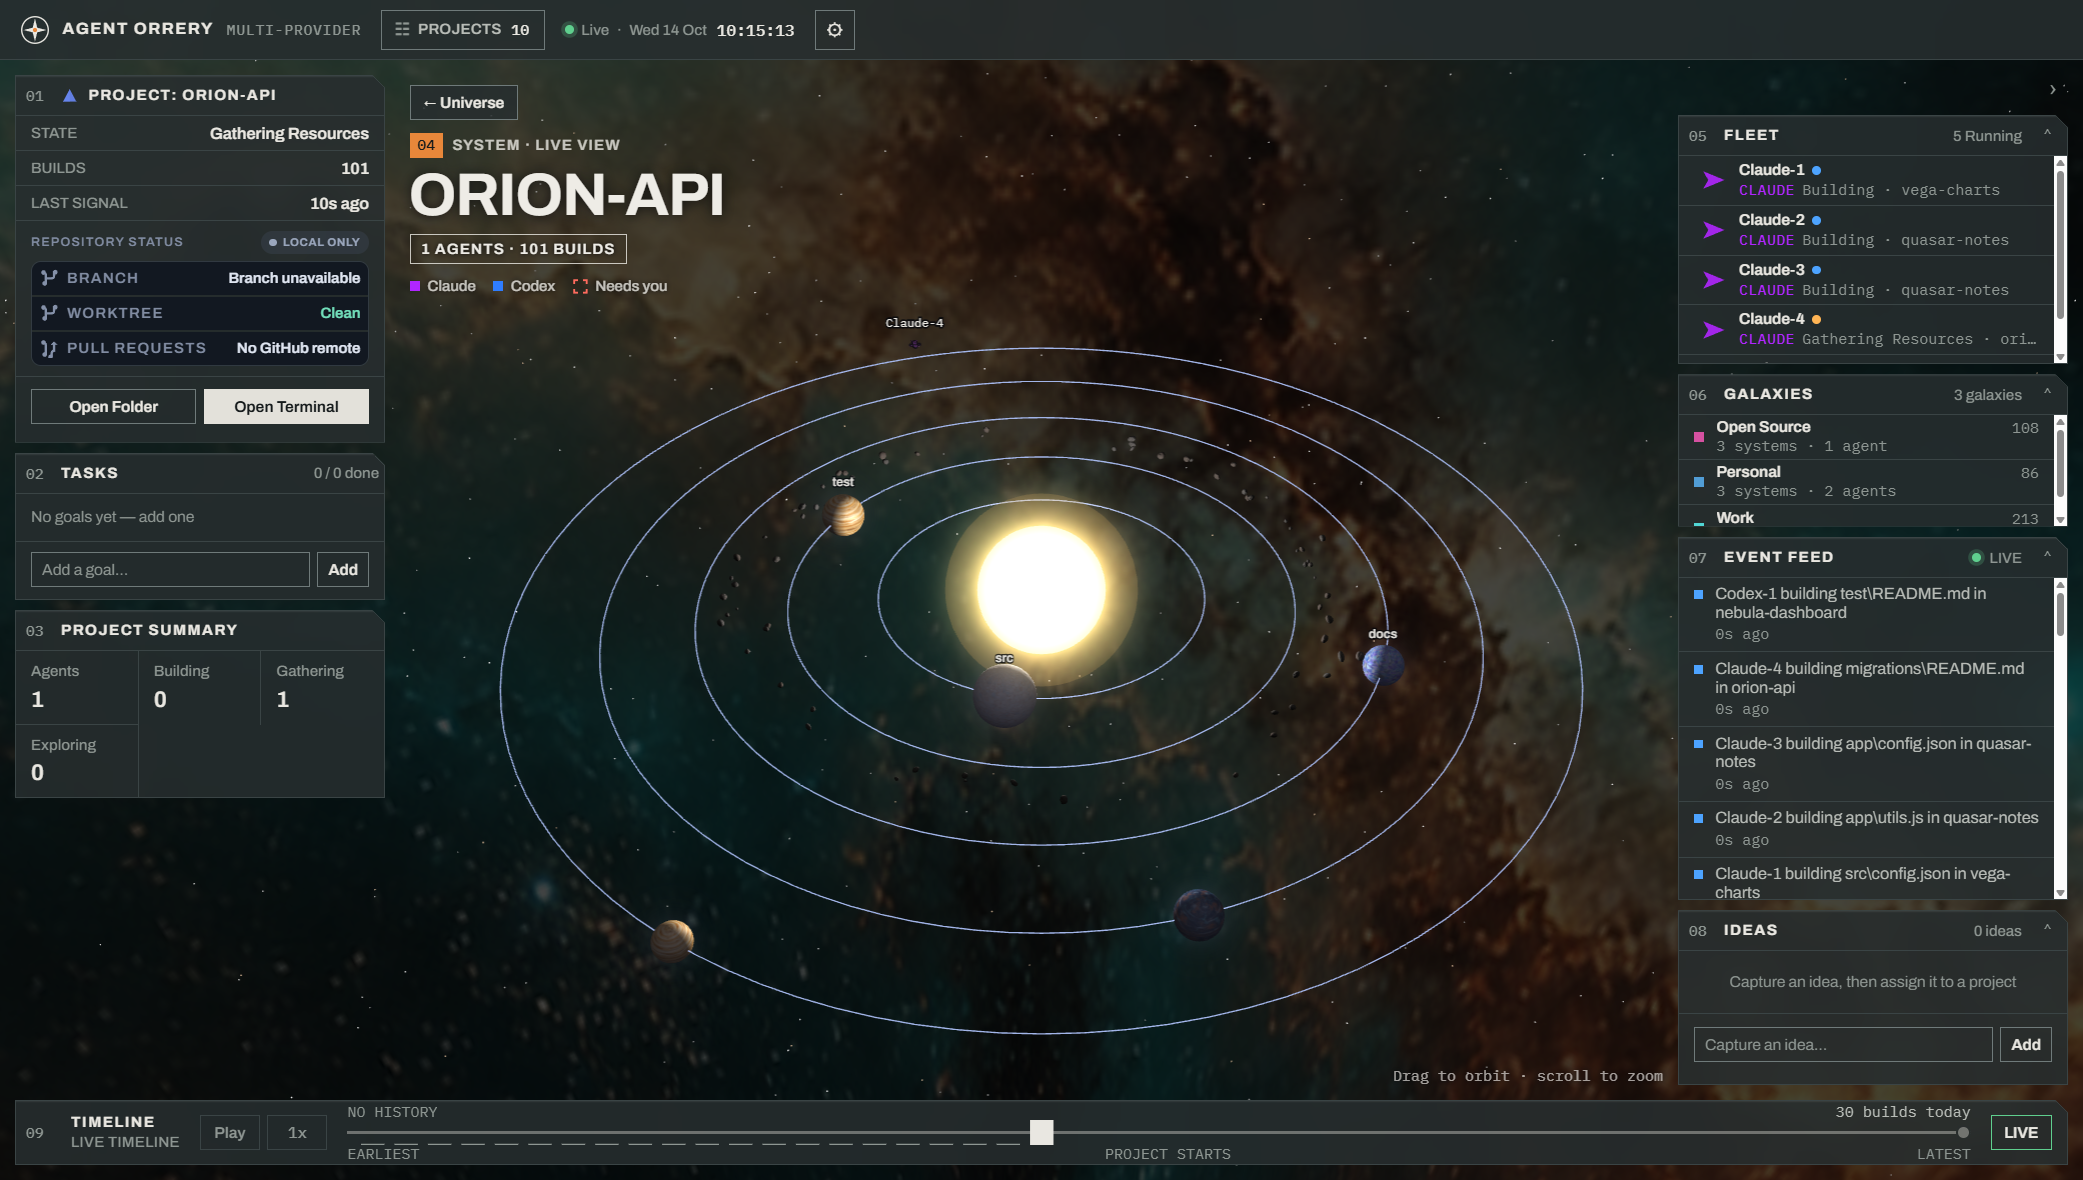
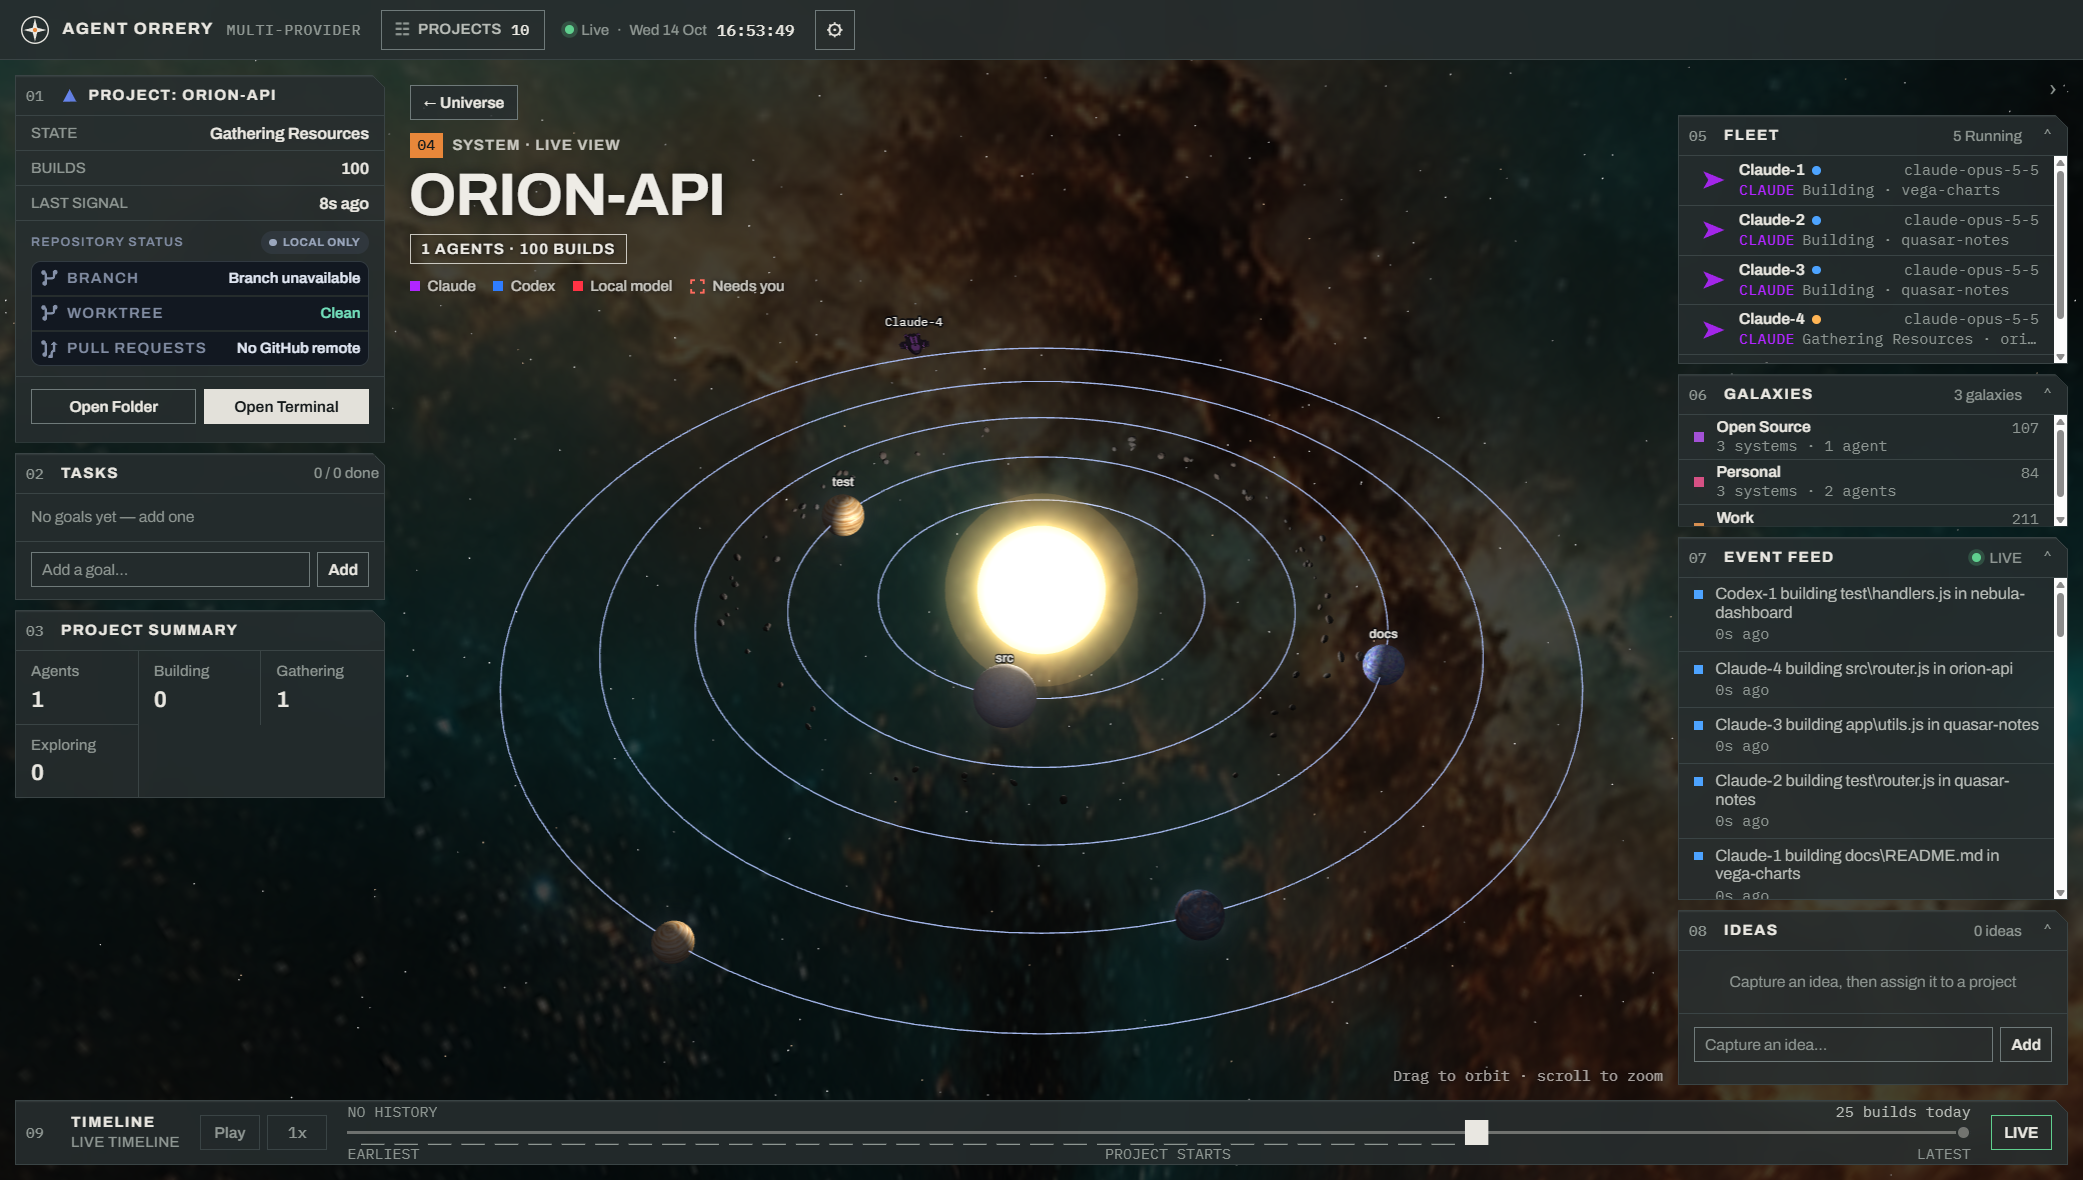
refactor: one assignModel for live and history, generic model-fact reads, provider-neutral model sanitiser, one chrome label

diff --git a/test/local-model.test.js b/test/local-model.test.js
@@ -6,7 +6,7 @@
 const test = require('node:test');
 const assert = require('node:assert/strict');
 const path = require('node:path');
-const { codexProviderIsLocal, claudeModelIsLocal, modelName } = require('../src/main/transcripts/model');
+const { codexProviderIsLocal, claudeModel, modelName } = require('../src/main/transcripts/model');
 const {
   SEC, MIN, T0, SLUG, CLAUDE_SESSION, CODEX_SESSION, appendJsonl, createWorld, ofType, claude, codex,
 } = require('./support/transcripts');
@@ -18,10 +18,12 @@ const shipLocal = (snapshot, id) => snapshot.ships.find((ship) => ship.id === id
 const shipModel = (snapshot, id) => snapshot.ships.find((ship) => ship.id === id).model;
 
 test('model names are printed as written, trimmed and capped, for any provider', () => {
-  for (const name of ['claude-opus-5-5', 'gpt-6-astra', 'qwen3-coder:30b', 'opus']) assert.equal(modelName(name), name);
-  assert.equal(modelName('  llama-3.3\u0007 '), 'llama-3.3');
+  for (const name of ['claude-opus-5-5', 'gpt-6-astra', 'qwen3-coder:30b', 'opus', 'Qwen3-Coder-480B-A35B-Instruct-FP8', 'ñandú-7b']) {
+    assert.equal(modelName(name), name);
+  }
+  assert.equal(modelName('  llama-3.3\u0007 '), 'llama-3.3');
   assert.equal(modelName('m'.repeat(100)).length, 64);
-  for (const value of [undefined, '', '   ', '<synthetic>', 42]) assert.equal(modelName(value), null);
+  for (const value of [undefined, '', '   ', 42]) assert.equal(modelName(value), null);
 });
 
 test('model family: the Codex providers and Claude models that count as local', () => {
@@ -30,11 +32,11 @@ test('model family: the Codex providers and Claude models that count as local', 
   }
   for (const provider of ['openai', 'azure', 'openrouter']) assert.equal(codexProviderIsLocal(provider), false, provider);
   for (const provider of [undefined, '', 42]) assert.equal(codexProviderIsLocal(provider), null);
-  assert.equal(claudeModelIsLocal('qwen3-coder:30b'), true);
+  assert.deepEqual(claudeModel('qwen3-coder:30b'), { local: true, model: 'qwen3-coder:30b' });
   for (const model of ['claude-opus-5-5', 'us.anthropic.claude-sonnet-5-5-v1:0']) {
-    assert.equal(claudeModelIsLocal(model), false, model);
+    assert.deepEqual(claudeModel(model), { local: false, model }, model);
   }
-  for (const model of [undefined, '', '<synthetic>']) assert.equal(claudeModelIsLocal(model), null);
+  for (const model of [undefined, '', '<synthetic>']) assert.deepEqual(claudeModel(model), { local: null, model: null });
 });
 
 test('live: a Claude session turns local when a non-Claude model answers, its drone too, and back', (t) => {

diff --git a/src/main/live/provider-records.js b/src/main/live/provider-records.js
@@ -113,6 +113,9 @@ function applyProviderSignals(model, signals, tail) {
     const provider = normalizeProvider(signal.provider || tail.provider);
     const sessionId = signal.sessionId || tail.session;
     const ts = Number.isFinite(signal.ts) ? signal.ts : Date.now();
+    // Any signal may restate the session's model facts; the tail remembers the latest.
+    if (typeof signal.local === 'boolean') tail.local = signal.local;
+    if (typeof signal.model === 'string') tail.model = signal.model;
 
     if (signal.type === 'session' || signal.type === 'project') {
       // Security follow-up: UNC/relative cwds have no project key; skip the association, never fnv1a(null).
@@ -121,18 +124,15 @@ function applyProviderSignals(model, signals, tail) {
         const project = ensureProjectForPath(model, signal.cwd, `project:${hex8(projectKey)}`, ts, 0);
         if (project) tail.project = project.id;
       }
-      if (typeof signal.local === 'boolean') tail.local = signal.local;
-      if (typeof signal.model === 'string') tail.model = signal.model;
       if (tail.project) {
         setModel(model, ensureProviderShip(
           model, provider, tail.project, sessionId,
           signal.kind || tail.kind || 'main', ts,
           signal.parentSessionId || tail.parentSessionId
-        ), tail.local, tail.model);
+        ), tail);
       }
       continue;
     }
-    if (signal.type === 'model' && typeof signal.model === 'string') tail.model = signal.model;
 
     const ship = ensureProviderShip(
       model, provider, tail.project, sessionId,
@@ -140,7 +140,7 @@ function applyProviderSignals(model, signals, tail) {
       signal.parentSessionId || tail.parentSessionId
     );
     if (!ship) continue;
-    setModel(model, ship, tail.local, tail.model);
+    setModel(model, ship, tail);
     ship.lastEvent = Math.max(ship.lastEvent, ts);
 
     if (signal.type === 'task-claim') {

diff --git a/src/main/transcripts/model.js b/src/main/transcripts/model.js
@@ -19,26 +19,27 @@ function codexProviderIsLocal(provider) {
 }
 
 /**
- * Whether a Claude Code assistant message came from a model other than Claude, which only a
- * local endpoint serves; null when the record names no model (or Claude Code's '<synthetic>').
- * @param {unknown} model
- * @returns {boolean | null}
- */
-function claudeModelIsLocal(model) {
-  if (typeof model !== 'string' || !model.trim() || model === '<synthetic>') return null;
-  return !/claude/i.test(model);
-}
-
-/**
- * The model a record names, as the chrome may print it: printable ASCII, at most
- * MODEL_NAME_LIMIT characters; null when absent or Claude Code's '<synthetic>'.
+ * The model a record names, as the chrome may print it: no control or format characters, at
+ * most MODEL_NAME_LIMIT characters; null when absent.
  * @param {unknown} value
  * @returns {string | null}
  */
 function modelName(value) {
   if (typeof value !== 'string') return null;
-  const name = value.replace(/[^\x20-\x7e]/g, '').trim().slice(0, MODEL_NAME_LIMIT);
-  return name && name !== '<synthetic>' ? name : null;
+  return value.replace(/\p{C}/gu, '').trim().slice(0, MODEL_NAME_LIMIT) || null;
 }
 
-module.exports = { codexProviderIsLocal, claudeModelIsLocal, modelName };
+/**
+ * What a Claude Code assistant message says about its model: the name, and whether it is a
+ * model other than Claude, which only a local endpoint serves. Both null when the message
+ * names no model, including Claude Code's own '<synthetic>' messages.
+ * @param {unknown} value
+ * @returns {{ local: boolean | null, model: string | null }}
+ */
+function claudeModel(value) {
+  const model = modelName(value);
+  if (model === null || model === '<synthetic>') return { local: null, model: null };
+  return { local: !/claude/i.test(model), model };
+}
+
+module.exports = { codexProviderIsLocal, claudeModel, modelName };

diff --git a/src/main/history/apply-record.js b/src/main/history/apply-record.js
@@ -8,6 +8,7 @@ const { classifyTool } = require('../provider-adapters');
 const { fnv1a } = require('../shared/hash');
 const { safeId, safePath } = require('../transcripts/fields');
 const { historyProject, historyShip } = require('../universe/public-shape');
+const { assignModel } = require('../universe/ships');
 
 /**
  * @import { HistoryModel } from './model'
@@ -45,7 +46,7 @@ function applyRecord(model, record, emit) {
     projectIdHint: record.entry.projectIdHint,
     projectId: null,
     local: record.entry.local === true,
-    model: typeof record.entry.model === 'string' ? record.entry.model : null,
+    model: record.entry.model || null,
   };
   if (typeof signal.local === 'boolean') runtime.local = signal.local;
   if (typeof signal.model === 'string') runtime.model = signal.model;
@@ -63,11 +64,7 @@ function applyRecord(model, record, emit) {
   model.state.runtimeBySource.set(record.sourceKey, runtime);
   const ship = model.ensureShip(runtime, record.ts, emit);
   if (!ship) return;
-  if (ship.local !== runtime.local || ship.model !== runtime.model) {
-    ship.local = runtime.local;
-    ship.model = runtime.model;
-    model.queue({ type: 'ship-updated', ship: historyShip(ship) }, emit);
-  }
+  if (assignModel(ship, runtime)) model.queue({ type: 'ship-updated', ship: historyShip(ship) }, emit);
   ship.lastEvent = Math.max(ship.lastEvent, record.ts);
   if (record.ts > project.lastActivity) {
     project.lastActivity = record.ts;

diff --git a/src/main/live/ships.js b/src/main/live/ships.js
@@ -5,7 +5,7 @@
 
 const { normalizeProvider } = require('../provider-adapters');
 const { liveShip } = require('../universe/public-shape');
-const { createShipRecord } = require('../universe/ships');
+const { createShipRecord, assignModel } = require('../universe/ships');
 const { queue, pushFeed } = require('./events');
 const { ACTIVE_WINDOW_MS } = require('./model');
 
@@ -62,19 +62,13 @@ function spawnDrone(model, project, parent, toolUseId, ts) {
 }
 
 /**
- * Records what a ship's transcript says about its model, the name and whether it is served
- * locally, and announces a change. Either fact may still be unknown.
+ * Announces a ship's model facts when they change.
  * @param {LiveModel} model
  * @param {LiveShip | null} ship
- * @param {unknown} local
- * @param {unknown} name
+ * @param {{ local?: unknown, model?: unknown }} facts
  */
-function setModel(model, ship, local, name) {
-  if (!ship) return;
-  let changed = false;
-  if (typeof local === 'boolean' && ship.local !== local) { ship.local = local; changed = true; }
-  if (typeof name === 'string' && ship.model !== name) { ship.model = name; changed = true; }
-  if (changed) queue(model, { type: 'ship-updated', ship: liveShip(ship) });
+function setModel(model, ship, facts) {
+  if (ship && assignModel(ship, facts)) queue(model, { type: 'ship-updated', ship: liveShip(ship) });
 }
 
 /**

diff --git a/src/renderer/app-chrome.js b/src/renderer/app-chrome.js
@@ -222,7 +222,8 @@
         badge.style.backgroundColor = attention.color + '1f';
         nameLine.appendChild(badge);
       }
-      if (s.local || s.model) nameLine.appendChild(A.modelTag(s));
+      const modelLabel = AUR.modelLabel(s);
+      if (modelLabel) nameLine.appendChild(AUR.el('span', 'agent-model-tag' + (s.local ? ' local' : ''), modelLabel));
       const sub = AUR.el('div', 'agent-sub');
       const providerTag = AUR.el('span', 'agent-provider-tag', provider.label.toUpperCase());
       providerTag.dataset.provider = provider.key;
@@ -240,14 +241,6 @@
       row.appendChild(body);
       list.appendChild(row);
     }
-  };
-
-  // The model a ship reports, whatever its provider; a local one is named as such and flies red.
-  A.modelTag = function modelTag(ship) {
-    const tag = AUR.el('span', 'agent-model-tag' + (ship.local ? ' local' : ''),
-      (ship.local ? 'Local' + (ship.model ? ' · ' : '') : '') + (ship.model || ''));
-    tag.title = ship.local ? 'Served from this machine' : 'Model';
-    return tag;
   };
 
   A.renderFeed = function renderFeed() {

diff --git a/src/main/history/historical-line.js b/src/main/history/historical-line.js
@@ -98,10 +98,8 @@ function historicalClaudeSignals(entry, record, lineOffset, ts, sessionEmitted) 
       signals.push(signal('turn-end'));
     } else if (fact.type === 'message') {
       message = fact;
-      const known = {};
-      if (fact.assistant && typeof fact.local === 'boolean') known.local = fact.local;
-      if (fact.assistant && fact.model) known.model = fact.model;
-      if ((fact.user && fact.prompt) || fact.assistant) signals.push(signal('turn-start', known));
+      const facts = fact.assistant ? { local: fact.local, model: fact.model } : {};
+      if ((fact.user && fact.prompt) || fact.assistant) signals.push(signal('turn-start', facts));
       if (fact.blocks && fact.user && fact.text) signals.push(signal('turn-start'));
     } else if (fact.type === 'tool-start' && message.assistant) {
       const callId = safeId(fact.callId) || `line-${lineOffset.toString(16)}`;

diff --git a/src/main/universe/ships.js b/src/main/universe/ships.js
@@ -33,4 +33,19 @@ function createShipRecord({
   };
 }
 
-module.exports = { createShipRecord };
+/**
+ * Takes what a transcript says about a ship's model, the name and whether it is served locally,
+ * from any carrier of those fields (a signal, a tail, a session's metadata, history's runtime).
+ * Returns whether the ship changed. Either fact may still be unknown.
+ * @param {LiveShip} ship
+ * @param {{ local?: unknown, model?: unknown }} facts
+ * @returns {boolean}
+ */
+function assignModel(ship, facts) {
+  let changed = false;
+  if (typeof facts.local === 'boolean' && ship.local !== facts.local) { ship.local = facts.local; changed = true; }
+  if (typeof facts.model === 'string' && ship.model !== facts.model) { ship.model = facts.model; changed = true; }
+  return changed;
+}
+
+module.exports = { createShipRecord, assignModel };

diff --git a/src/main/transcripts/claude.js b/src/main/transcripts/claude.js
@@ -2,7 +2,7 @@
 'use strict';
 
 const { plainObject } = require('./fields');
-const { claudeModelIsLocal, modelName } = require('./model');
+const { claudeModel } = require('./model');
 
 const TOOL_STATUS = Object.freeze({
   Edit: 'Building', Write: 'Building', NotebookEdit: 'Building', MultiEdit: 'Building',
@@ -82,8 +82,7 @@ function claudeRecordToSignals(value) {
     blocks: Array.isArray(content),
     text: blocks.some((block) => block.type === 'text'),
     toolResult: blocks.some((block) => block.type === 'tool_result'),
-    local: assistant ? claudeModelIsLocal(message.model) : null,
-    model: assistant ? modelName(message.model) : null,
+    ...(assistant ? claudeModel(message.model) : { local: null, model: null }),
   });
   for (const block of blocks) {
     if (block.type === 'tool_use') signals.push(toolStart(block));

diff --git a/src/main/live/codex-source.js b/src/main/live/codex-source.js
@@ -82,7 +82,7 @@ function scanCodex(model, isStartup) {
       if (isStartup && now - st.mtimeMs < ACTIVE_WINDOW_MS) {
         setModel(model, ensureProviderShip(
           model, 'codex', project.id, sessionId, meta.kind, st.mtimeMs, meta.parentSessionId
-        ), meta.local, meta.model);
+        ), meta);
       }
     } else {
       tail.project = project.id;
@@ -206,7 +206,7 @@ function readCodexOwnMetadata(file, sessionId) {
         parentSessionId: codexParentSessionId(payload),
         kind: session.kind,
         local: session.local,
-        model: typeof session.model === 'string' ? session.model : null,
+        model: session.model || null,
         timestamp: session.ts || 0,
       };
       if (recordSessionId === sessionId) return result;

diff --git a/src/main/universe/public-shape.js b/src/main/universe/public-shape.js
@@ -37,7 +37,7 @@ function liveShip(s) {
     provider: normalizeProvider(s.provider || 'claude'),
     status: /** @type {ShipStatus} */ (s.status), detail: s.detail, lastEvent: s.lastEvent,
     attention: s.attention, attentionSince: s.attentionSince, builds: s.builds, local: s.local === true,
-    model: typeof s.model === 'string' ? s.model : null,
+    model: s.model,
     taskId: typeof s.taskId === 'string' ? s.taskId : null,
     turnOutcome: typeof s.turnOutcome === 'string' ? s.turnOutcome : null,
   };
@@ -76,7 +76,7 @@ function historyShip(ship) {
     attentionSince: ship.attentionSince,
     builds: ship.builds,
     local: ship.local === true,
-    model: typeof ship.model === 'string' ? ship.model : null,
+    model: ship.model,
   };
 }
 

diff --git a/src/renderer/util.js b/src/renderer/util.js
@@ -91,6 +91,9 @@
   // Provider color is fleet identity, red for a local model. It never varies by agent or hull.
   AUR.shipColor = (ship) => (ship && ship.local === true
     ? AUR.LOCAL_MODEL.color : AUR.providerMeta(ship && ship.provider).color);
+  // What the chrome says about a ship's model: 'Local · <model>', either half alone, or ''.
+  AUR.modelLabel = (ship) => [ship && ship.local === true ? AUR.LOCAL_MODEL.label.split(' ')[0] : null,
+    ship && ship.model].filter(Boolean).join(' · ');
   AUR.shipTint = (shipId, provider) => {
     const ship = typeof AUR.shipLookup === 'function' ? AUR.shipLookup(shipId) : null;
     return AUR.shipColor(ship && ship.local === true ? ship : { provider });
